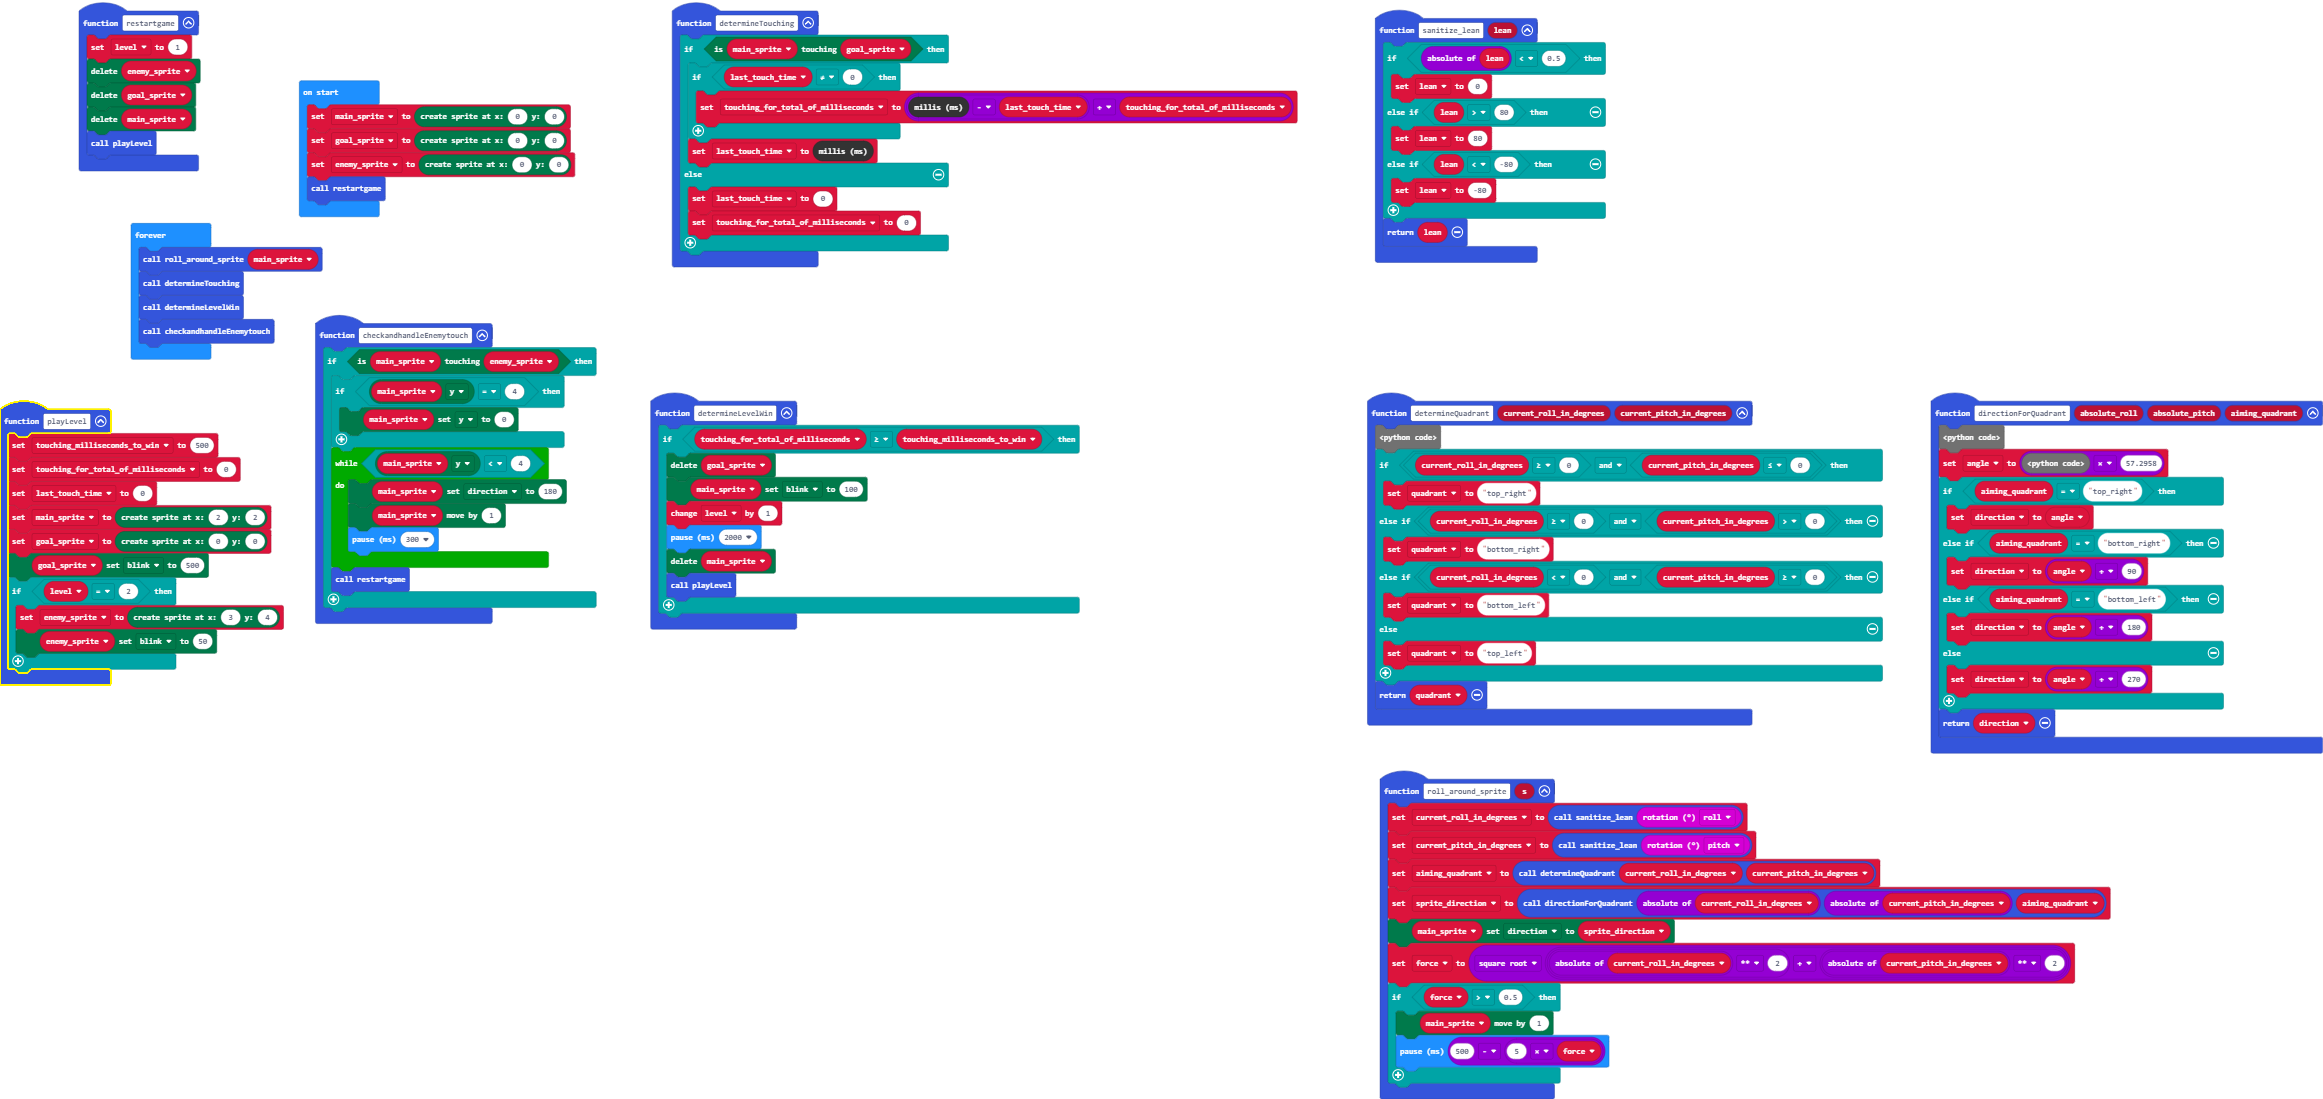
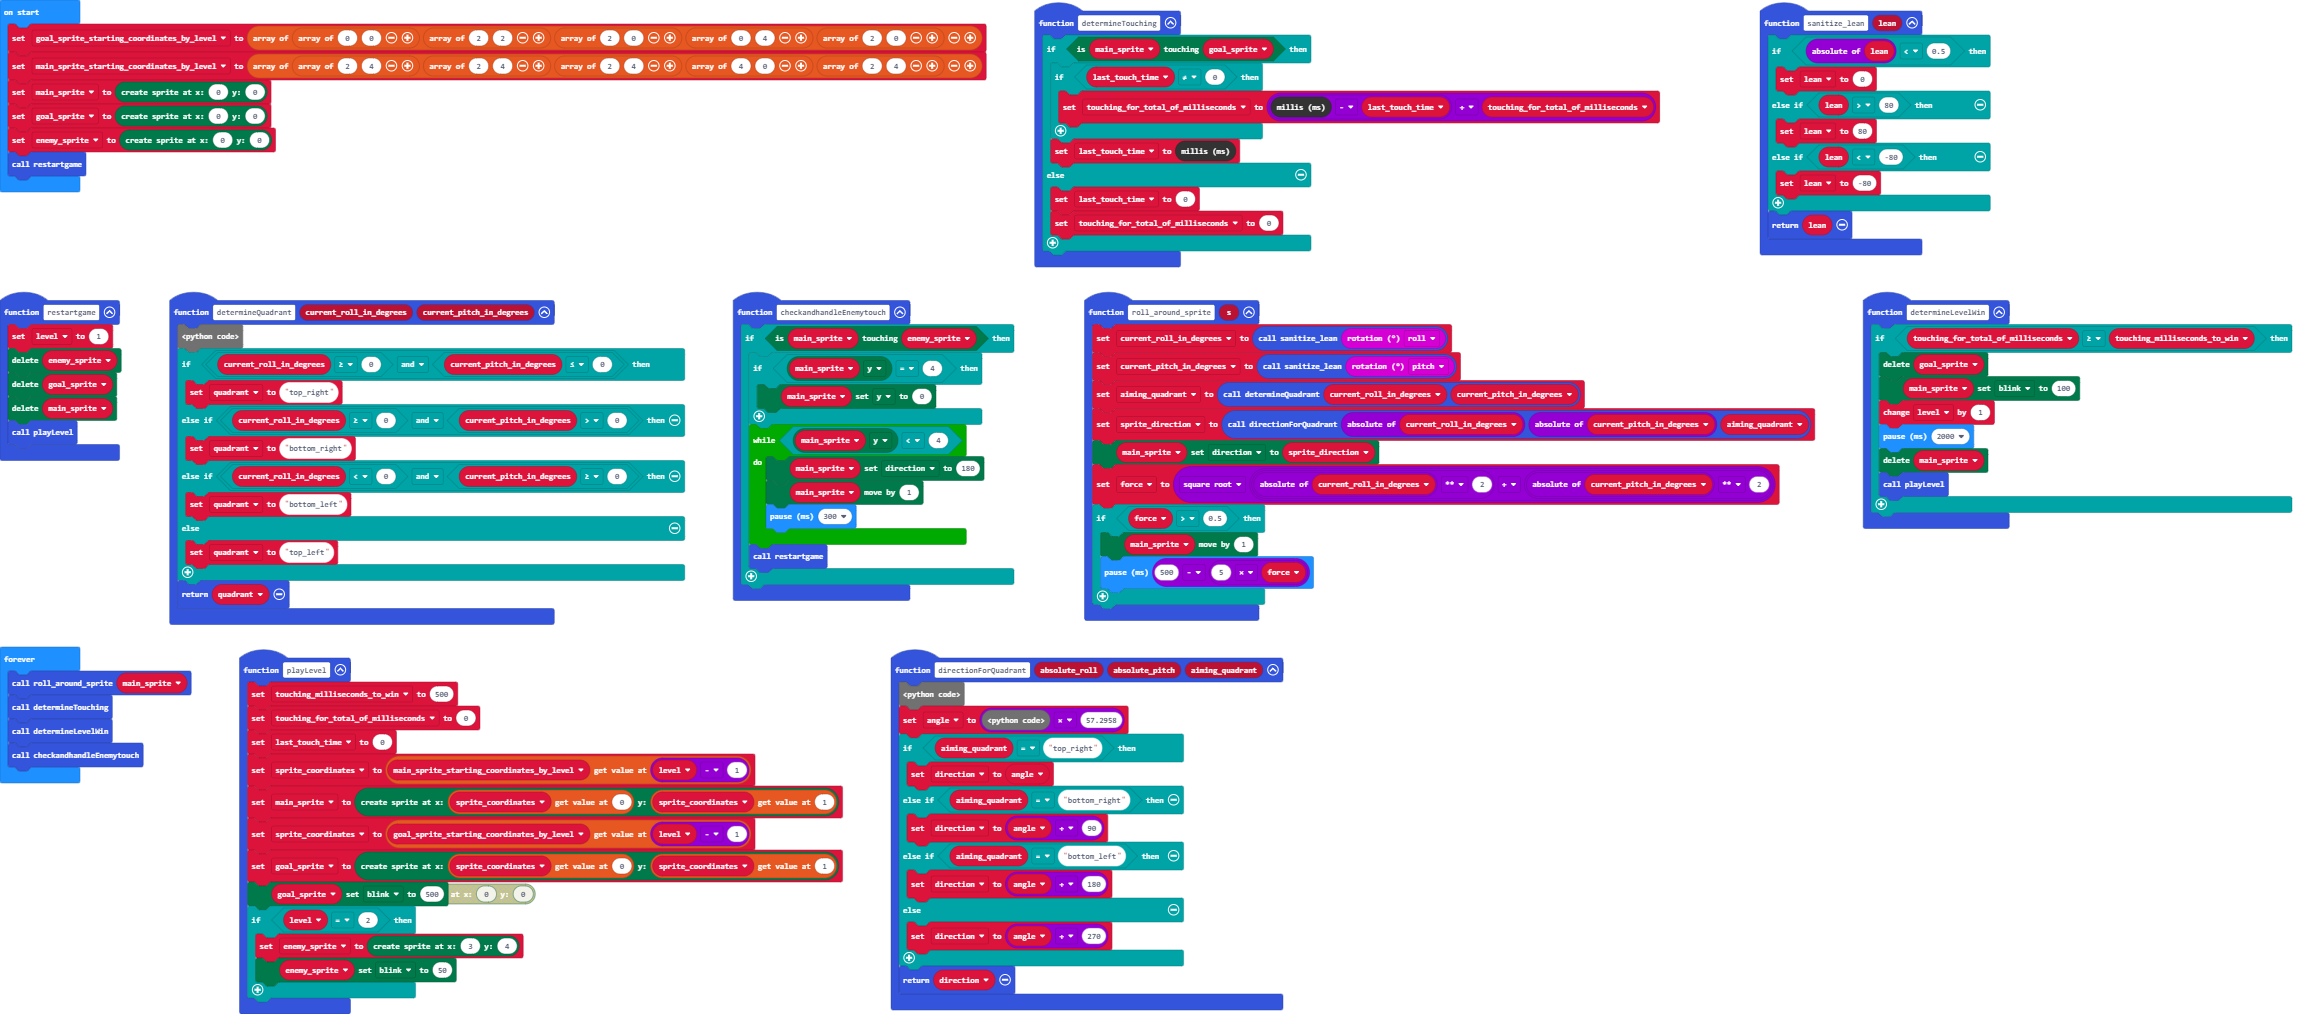
Use arrays for sprites per level and add many enemies

diff --git a/main.ts b/main.ts
@@ -66,8 +66,10 @@ function playLevel () {
     touching_milliseconds_to_win = 500
     touching_for_total_of_milliseconds = 0
     last_touch_time = 0
-    main_sprite = game.createSprite(2, 2)
-    goal_sprite = game.createSprite(0, 0)
+    sprite_coordinates = main_sprite_starting_coordinates_by_level[level - 1]
+    main_sprite = game.createSprite(sprite_coordinates[0], sprite_coordinates[1])
+    sprite_coordinates = goal_sprite_starting_coordinates_by_level[level - 1]
+    goal_sprite = game.createSprite(sprite_coordinates[0], sprite_coordinates[1])
     goal_sprite.set(LedSpriteProperty.Blink, 500)
     if (level == 2) {
         enemy_sprite = game.createSprite(3, 4)
@@ -106,6 +108,7 @@ let sprite_direction = 0
 let aiming_quadrant = ""
 let current_pitch_in_degrees = 0
 let current_roll_in_degrees = 0
+let sprite_coordinates: number[] = []
 let touching_milliseconds_to_win = 0
 let level = 0
 let lean = 0
@@ -114,6 +117,10 @@ let last_touch_time = 0
 let enemy_sprite: game.LedSprite = null
 let goal_sprite: game.LedSprite = null
 let main_sprite: game.LedSprite = null
+let main_sprite_starting_coordinates_by_level: number[][] = []
+let goal_sprite_starting_coordinates_by_level: number[][] = []
+goal_sprite_starting_coordinates_by_level = [[0, 0], [2, 2], [2, 0], [0, 4], [2, 0]]
+main_sprite_starting_coordinates_by_level = [[2, 4], [2, 4], [2, 4], [4, 0], [2, 4]]
 main_sprite = game.createSprite(0, 0)
 goal_sprite = game.createSprite(0, 0)
 enemy_sprite = game.createSprite(0, 0)

diff --git a/main.py b/main.py
@@ -18,6 +18,9 @@ def sanitize_lean(lean: number):
 def restartgame():
     global level
     level = 1
+    enemy_sprite.delete()
+    goal_sprite.delete()
+    main_sprite.delete()
     playLevel()
 def determineLevelWin():
     global level
@@ -48,16 +51,17 @@ def checkandhandleEnemytouch():
             basic.pause(300)
         restartgame()
 def playLevel():
-    global touching_milliseconds_to_win, touching_for_total_of_milliseconds, last_touch_time, main_sprite, goal_sprite, enemy_sprite
+    global touching_milliseconds_to_win, touching_for_total_of_milliseconds, last_touch_time, sprite_coordinates, main_sprite, goal_sprite, enemy_sprite
     touching_milliseconds_to_win = 500
     touching_for_total_of_milliseconds = 0
     last_touch_time = 0
-    main_sprite = game.create_sprite(2, 2)
+    sprite_coordinates = main_sprite_starting_coordinates_by_level[level - 1]
+    main_sprite = game.create_sprite(sprite_coordinates[0], sprite_coordinates[1])
     goal_sprite = game.create_sprite(0, 0)
     goal_sprite.set(LedSpriteProperty.BLINK, 500)
     if level == 2:
-        enemy_sprite = game.create_sprite(4, 3)
-        enemy_sprite.set(LedSpriteProperty.BLINK, 100)
+        enemy_sprite = game.create_sprite(3, 4)
+        enemy_sprite.set(LedSpriteProperty.BLINK, 50)
 def roll_around_sprite(s: game.LedSprite):
     global current_roll_in_degrees, current_pitch_in_degrees, aiming_quadrant, sprite_direction, force
     current_roll_in_degrees = sanitize_lean(input.rotation(Rotation.ROLL))
@@ -89,14 +93,22 @@ sprite_direction = 0
 aiming_quadrant = ""
 current_pitch_in_degrees = 0
 current_roll_in_degrees = 0
-enemy_sprite: game.LedSprite = None
+sprite_coordinates: List[number] = []
 touching_milliseconds_to_win = 0
 level = 0
 lean = 0
 touching_for_total_of_milliseconds = 0
 last_touch_time = 0
+enemy_sprite: game.LedSprite = None
 goal_sprite: game.LedSprite = None
+goal_sprite_starting_coordinates_by_level: List[List[number]] = []
+goal_sprite_starting_coordinates_by_level = [[0, 0], [2, 2], [2, 0], [0, 4], [2, 0]]
 main_sprite: game.LedSprite = None
+main_sprite_starting_coordinates_by_level: List[List[number]] = []
+main_sprite_starting_coordinates_by_level = [[2, 4], [2, 4], [2, 4], [4, 0], [2, 4]]
+main_sprite = game.create_sprite(0, 0)
+goal_sprite = game.create_sprite(0, 0)
+enemy_sprite = game.create_sprite(0, 0)
 restartgame()
 
 def on_forever():
